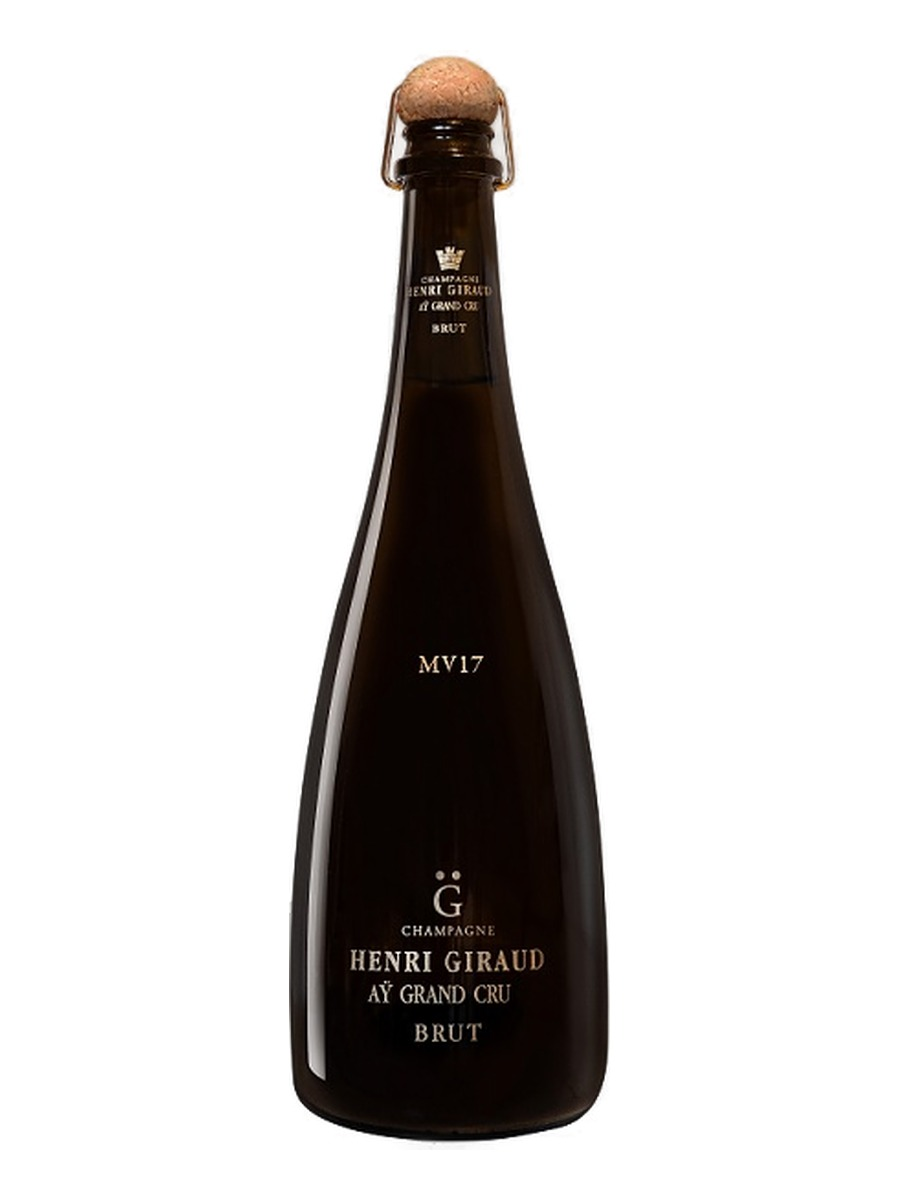
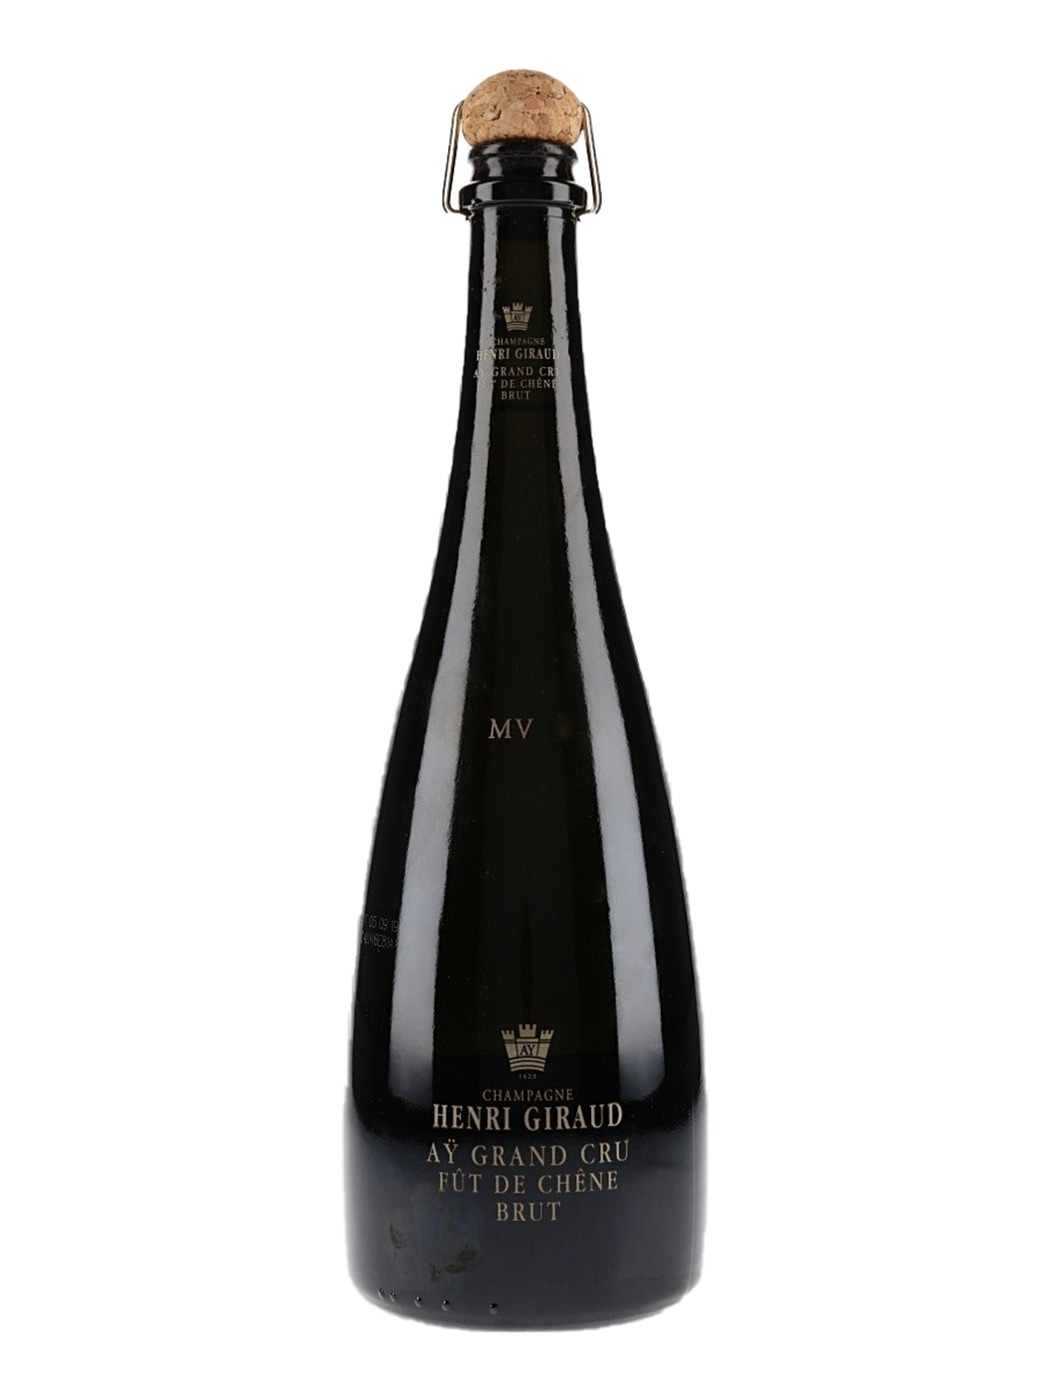
Separate Henri Giraud Fut de Chene from Esprit

Changed region(s): [[0.3111, 0.0308, 0.6844, 0.9558]]

diff --git a/app.js b/app.js
@@ -59,7 +59,7 @@
 
   const PREF_KEY = "wine-cellar-pref";
   const SEED_KEY = "wine-cellar-seed-version";
-  const SEED_VERSION = "user-wine-list-2026-06-28-normalize-cloud-seed-data";
+  const SEED_VERSION = "user-wine-list-2026-06-28-henri-giraud-fut-de-chene";
   const SEED_TSV = `status	type	country_code	country_name	name	vintage
 cellar	red	FR	프랑스	프리에르 로크, 르 끌라우드	2019
 cellar	red	FR	프랑스	Moillard Gevrey-Chambertin	2018
@@ -135,7 +135,7 @@ cellar	sparkling	FR	프랑스	돔페르뇽	2013
 cellar	sparkling	FR	프랑스	돔페르뇽	2013
 cellar	sparkling	FR	프랑스	돔페르뇽	2013
 drunk	sparkling	FR	프랑스	돔페르뇽	2013
-cellar	sparkling	FR	프랑스	앙리 지로 에스쁘리
+cellar	sparkling	FR	프랑스	앙리 지로 퓌드센 MV17
 cellar	sparkling	FR	프랑스	레어 08
 drunk	sparkling	FR	프랑스	떼땅져
 drunk	sparkling	FR	프랑스	떼땅져
@@ -291,8 +291,10 @@ drunk	sparkling	FR	프랑스	도츠 브뤼 클래식`;
     "크룩 171": "피노 누아, 샤르도네, 피노 뮈니에",
     "크룩 172": "피노 누아, 샤르도네, 피노 뮈니에",
     "돔페르뇽": "피노 누아, 샤르도네",
-    "앙리 지로 에스쁘리": "피노 누아, 샤르도네",
+    "앙리 지로 퓌드센 MV17": "피노 누아, 샤르도네",
+    "앙리 지로 퓌 드 쉔 MV17": "피노 누아, 샤르도네",
     "앙리지로 MV17": "피노 누아, 샤르도네",
+    "앙리 지로 에스쁘리": "피노 누아, 샤르도네",
     "레어 08": "샤르도네, 피노 누아",
     "떼땅져": "샤르도네, 피노 누아, 피노 뮈니에",
     "필리조 에 피스 누메로 3 브뤼": "샤르도네, 피노 뮈니에, 피노 누아",
@@ -417,10 +419,18 @@ drunk	sparkling	FR	프랑스	도츠 브뤼 클래식`;
         { name: "앙리지로 MV17", country: "FR", vintage: "" },
         { name: "앙리 지로 MV17", country: "FR", vintage: "" },
         { name: "Henri Giraud MV17", country: "FR", vintage: "" },
+        { name: "Henri Giraud Fut de Chene MV17", country: "FR", vintage: "" },
+        { name: "Henri Giraud Fût de Chêne MV17", country: "FR", vintage: "" },
+        { name: "앙리 지로 퓌 드 쉔 MV17", country: "FR", vintage: "" },
+        { name: "앙리 지로 퓌드센 MV17", country: "FR", vintage: "" },
+        { name: "앙리 지로 퓌드센", country: "FR", vintage: "" },
         { name: "앙리지로 에스쁘리", country: "FR", vintage: "" },
+        { name: "앙리 지로 에스쁘리", country: "FR", vintage: "" },
+        { name: "앙리 지로 에스쁘리 네이처", country: "FR", vintage: "" },
         { name: "Henri Giraud Esprit", country: "FR", vintage: "" },
+        { name: "Henri Giraud Esprit Nature", country: "FR", vintage: "" },
       ],
-      next: { name: "앙리 지로 에스쁘리", country: "FR", vintage: "" },
+      next: { name: "앙리 지로 퓌드센 MV17", country: "FR", vintage: "" },
     },
     "seed-081": {
       old: { name: "필리조 에피스", country: "FR", vintage: "" },
@@ -705,7 +715,7 @@ drunk	sparkling	FR	프랑스	도츠 브뤼 클래식`;
     "seed-072": "wine-images/review-053.jpg",
     "seed-073": "wine-images/review-053.jpg",
     "seed-074": "wine-images/review-053.jpg",
-    "seed-075": "wine-images/review-133.jpg",
+    "seed-075": "wine-images/review-054.jpg",
 
     "seed-076": "wine-images/review-055.jpg",
     "seed-077": "wine-images/review-056.jpg",
@@ -823,6 +833,14 @@ drunk	sparkling	FR	프랑스	도츠 브뤼 클래식`;
   const DEFAULT_PHOTO_AUTOFILL_ENABLED = true;
   const DEFAULT_PHOTO_RE = /^wine-images\/(?:ready|review)-\d{3}\.jpg$/;
   const DEFAULT_PHOTO_BY_WINE_NAME = {
+    "앙리 지로 퓌드센 MV17": "wine-images/review-054.jpg",
+    "앙리 지로 퓌드센": "wine-images/review-054.jpg",
+    "앙리 지로 퓌 드 쉔 MV17": "wine-images/review-054.jpg",
+    "앙리지로 MV17": "wine-images/review-054.jpg",
+    "앙리 지로 MV17": "wine-images/review-054.jpg",
+    "Henri Giraud MV17": "wine-images/review-054.jpg",
+    "Henri Giraud Fut de Chene MV17": "wine-images/review-054.jpg",
+    "Henri Giraud Fût de Chêne MV17": "wine-images/review-054.jpg",
     "앙리 지로 에스쁘리": "wine-images/review-133.jpg",
     "앙리지로 에스쁘리": "wine-images/review-133.jpg",
     "Henri Giraud Esprit": "wine-images/review-133.jpg",

diff --git a/index.html b/index.html
@@ -49,6 +49,6 @@
   <div class="backdrop" id="backdrop" hidden></div>
   <section class="sheet" id="sheet" role="dialog" aria-modal="true" hidden></section>
 
-  <script src="app.js?v=20260628-normalize-cloud-seed-data"></script>
+  <script src="app.js?v=20260628-henri-giraud-fut-de-chene"></script>
 </body>
 </html>
